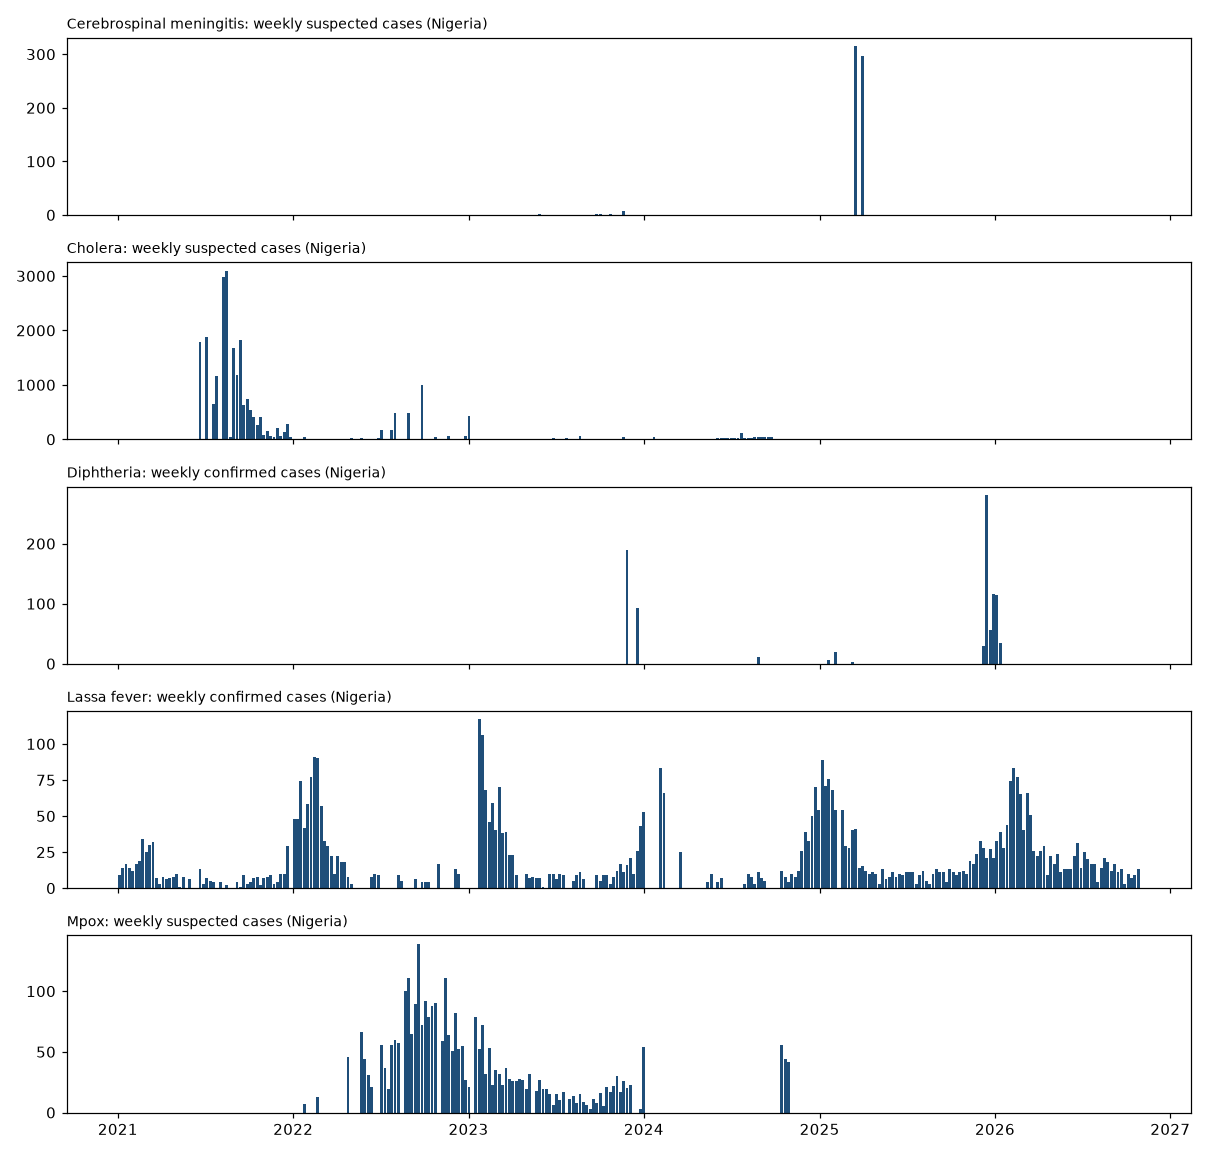
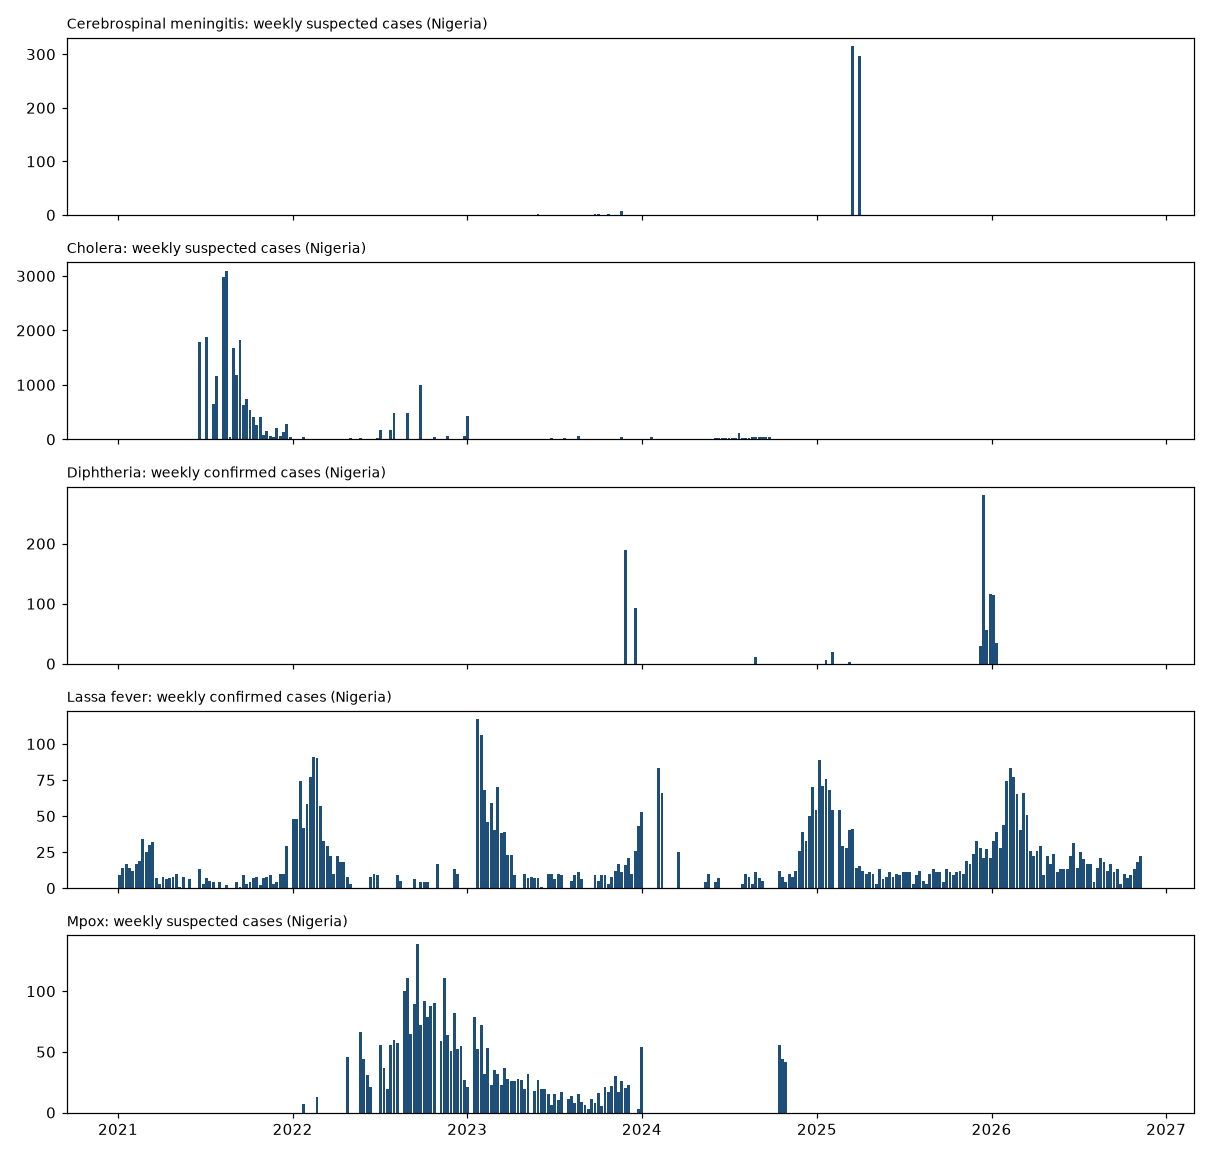
Updated the results report with the latest NCDC data

diff --git a/results/README.md b/results/README.md
@@ -1,12 +1,12 @@
 # Results
 
-> **Real NCDC data, as of 23 November 2026.** All figures were read automatically from the situation reports of the Nigeria Centre for Disease Control and Prevention (NCDC) and checked by the pipeline's validation rules. The four most recent weeks may still be revised by later reports. No synthetic (demo) data is included.
+> **Real NCDC data, as of 26 November 2026.** All figures were read automatically from the situation reports of the Nigeria Centre for Disease Control and Prevention (NCDC) and checked by the pipeline's validation rules. The four most recent weeks may still be revised by later reports. No synthetic (demo) data is included.
 
 This page is rebuilt automatically after every database load, so every number below comes from the database at the time of writing. The research questions (RQ1 to RQ4) are the ones in the thesis.
 
 ## 1. Data collected
 
-The pipeline downloaded 913 NCDC report files. It read 520 of them automatically, set aside 248 (mostly reports from before the 2021 to 2026 study period) and sent 131 to the manual queue because their layout could not be read with confidence. Table 1 shows what was stored for each disease. Lassa fever had the most complete record, with 237 weeks. This is because NCDC publishes a Lassa fever report almost every week, while the other diseases are reported in short runs during outbreaks or once a month.
+The pipeline downloaded 915 NCDC report files. It read 522 of them automatically, set aside 248 (mostly reports from before the 2021 to 2026 study period) and sent 131 to the manual queue because their layout could not be read with confidence. Table 1 shows what was stored for each disease. Lassa fever had the most complete record, with 239 weeks. This is because NCDC publishes a Lassa fever report almost every week, while the other diseases are reported in short runs during outbreaks or once a month.
 
 Table 1- National figures stored for each disease
 
@@ -15,7 +15,7 @@ Table 1- National figures stored for each disease
 | Cerebrospinal meningitis | 29 May 2023 | 31 Mar 2025 | 8 | yes |
 | Cholera | 29 Mar 2021 | 24 Feb 2025 | 77 | yes |
 | Diphtheria | 27 Nov 2023 | 12 Jan 2026 | 14 | yes |
-| Lassa fever | 04 Jan 2021 | 26 Oct 2026 | 237 | yes |
+| Lassa fever | 04 Jan 2021 | 09 Nov 2026 | 239 | yes |
 | Measles | 30 Jun 2025 | 28 Sep 2026 | 16 | yes |
 | Mpox | 24 Jan 2022 | 28 Oct 2024 | 105 | yes |
 | Yellow fever | 25 Jan 2021 | 26 May 2025 | 40 | yes |
@@ -23,12 +23,14 @@ Table 1- National figures stored for each disease
 
 ## 2. Pipeline runs (RQ1)
 
-Out of 7 recorded runs, 3 finished successfully, 4 finished partly (the run completed but at least one report could not be read or loaded) and 0 failed. A partial run still saves everything it could read, and the reports it could not read are listed for review.
+Out of 9 recorded runs, 5 finished successfully, 4 finished partly (the run completed but at least one report could not be read or loaded) and 0 failed. A partial run still saves everything it could read, and the reports it could not read are listed for review.
 
 Table 2- The ten most recent pipeline runs
 
 | Started (UTC) | Type | Status | New files | Rows read | Rows loaded | Rows flagged | Rows held back | Revisions | Seconds |
 |---|---|---|---|---|---|---|---|---|---|
+| 2026-11-26 08:50 | manual | success | 0 | 0 | 0 | 0 | 0 | 0 | 206 |
+| 2026-11-25 15:38 | daily_check | success | 2 | 39 | 39 | 0 | 0 | 0 | 174 |
 | 2026-11-23 16:00 | scheduled | success | 0 | 0 | 0 | 0 | 0 | 0 | 207 |
 | 2026-11-19 18:31 | manual | success | 0 | 1 | 0 | 0 | 1 | 0 | 272 |
 | 2026-11-19 17:31 | manual | partial | 0 | 311 | 307 | 27 | 4 | 7 | 1977 |
@@ -58,7 +60,7 @@ Table 4- Warnings on loaded rows
 
 | Warning | Rows |
 |---|---|
-| R12_COMPLETENESS | 6734 |
+| R12_COMPLETENESS | 6771 |
 | R07_STATE_SUM | 154 |
 | R06_CUM_DECREASE | 130 |
 | R05_CFR_MISMATCH | 50 |
@@ -93,7 +95,7 @@ Fig. 2- Lassa fever trend and seasonal pattern (STL). Source: Collins C. Akagha 
 
 ## 6. Outbreak alerts (RQ3)
 
-I ran the EARS C1, C2 and C3 checks (simple statistical tests from the US CDC's Early Aberration Reporting System that compare a week with the weeks before it) on every national series, and a SARIMA residual check on every series with more than two years of weekly data. Together they flagged 206 weeks out of 1,562 checks (Fig. 3).
+I ran the EARS C1, C2 and C3 checks (simple statistical tests from the US CDC's Early Aberration Reporting System that compare a week with the weeks before it) on every national series, and a SARIMA residual check on every series with more than two years of weekly data. Together they flagged 206 weeks out of 1,570 checks (Fig. 3).
 
 ![Alerts](figures/03_alerts_by_disease.png)
 
@@ -113,10 +115,10 @@ Table 6- Alert checks by disease and method
 | Diphtheria | EARS C1 | 3 | 12 |
 | Diphtheria | EARS C2 | 5 | 12 |
 | Diphtheria | EARS C3 | 8 | 12 |
-| Lassa fever | EARS C1 | 14 | 231 |
-| Lassa fever | EARS C2 | 29 | 229 |
-| Lassa fever | EARS C3 | 45 | 227 |
-| Lassa fever | SARIMA residual | 14 | 193 |
+| Lassa fever | EARS C1 | 14 | 233 |
+| Lassa fever | EARS C2 | 29 | 231 |
+| Lassa fever | EARS C3 | 45 | 229 |
+| Lassa fever | SARIMA residual | 14 | 195 |
 | Mpox | EARS C1 | 5 | 94 |
 | Mpox | EARS C2 | 10 | 94 |
 | Mpox | EARS C3 | 18 | 94 |
@@ -129,7 +131,7 @@ I compared seven forecasting methods: a seasonal naive benchmark (the same week 
 
 ### Lassa fever
 
-The models were trained on confirmed cases. Each was tested over 55 forecast origins. One week ahead, the most accurate method was **SVR** with a MASE of 0.557 and an average error of 6.8 cases per week. The next best was Negative binomial (MASE 0.602), so the best method was 7.5% more accurate. For comparison, SARIMA scored 0.619 and the seasonal naive benchmark scored 1.093. 6 of the 7 methods beat the seasonal naive benchmark one week ahead.
+The models were trained on confirmed cases. Each was tested over 55 forecast origins. One week ahead, the most accurate method was **SVR** with a MASE of 0.594 and an average error of 7.2 cases per week. The next best was Negative binomial (MASE 0.606), so the best method was 1.9% more accurate. For comparison, SARIMA scored 0.636 and the seasonal naive benchmark scored 1.109. 6 of the 7 methods beat the seasonal naive benchmark one week ahead.
 
 ![MASE Lassa fever](figures/04_lassa_mase.png)
 
@@ -139,13 +141,13 @@ Table 7- Lassa fever: MASE by method and weeks ahead
 
 | Method | MASE 1 wk | MASE 2 wk | MASE 3 wk | MASE 4 wk |
 |---|---|---|---|---|
-| SVR | 0.557 | 0.632 | 0.715 | 0.755 |
-| Negative binomial | 0.602 | 0.713 | 0.760 | 0.798 |
-| SARIMA | 0.619 | 0.711 | 0.793 | 0.861 |
-| Random Forest | 0.631 | 0.722 | 0.742 | 0.691 |
-| Gradient Boosting | 0.657 | 0.739 | 0.836 | 0.833 |
-| XGBoost | 0.706 | 0.762 | 0.802 | 0.757 |
-| Seasonal naive | 1.093 | 1.109 | 1.125 | 1.134 |
+| SVR | 0.594 | 0.685 | 0.722 | 0.792 |
+| Negative binomial | 0.606 | 0.722 | 0.763 | 0.808 |
+| SARIMA | 0.636 | 0.740 | 0.831 | 0.886 |
+| Random Forest | 0.650 | 0.741 | 0.765 | 0.701 |
+| Gradient Boosting | 0.665 | 0.715 | 0.753 | 0.788 |
+| XGBoost | 0.700 | 0.704 | 0.725 | 0.809 |
+| Seasonal naive | 1.109 | 1.117 | 1.138 | 1.142 |
 
 
 At the 5% level, the Diebold-Mariano test showed that Seasonal naive (p = 0.013) was significantly less accurate than SARIMA. For the other methods the difference from SARIMA could be due to chance, so I cannot say that any of them is truly better or worse than SARIMA.
@@ -154,12 +156,12 @@ Table 8- Lassa fever: one-week-ahead accuracy and Diebold-Mariano test against S
 
 | Method | MAE | RMSE | MASE | DM statistic | p-value |
 |---|---|---|---|---|---|
-| SVR | 6.753 | 9.150 | 0.557 | -1.110 | 0.272 |
-| Negative binomial | 7.300 | 9.656 | 0.602 | -1.007 | 0.318 |
-| Random Forest | 7.653 | 9.529 | 0.631 | -0.752 | 0.456 |
-| Gradient Boosting | 7.965 | 10.048 | 0.657 | -0.477 | 0.635 |
-| XGBoost | 8.556 | 10.687 | 0.706 | -0.017 | 0.986 |
-| Seasonal naive | 13.255 | 18.254 | 1.093 | 2.577 | 0.013 |
+| SVR | 7.153 | 9.289 | 0.594 | -1.282 | 0.205 |
+| Negative binomial | 7.294 | 9.656 | 0.606 | -1.054 | 0.297 |
+| Random Forest | 7.829 | 9.592 | 0.650 | -0.744 | 0.460 |
+| Gradient Boosting | 8.002 | 10.073 | 0.665 | -0.474 | 0.638 |
+| XGBoost | 8.421 | 10.386 | 0.700 | -0.268 | 0.790 |
+| Seasonal naive | 13.345 | 18.282 | 1.109 | 2.580 | 0.013 |
 
 
 ![Forecast Lassa fever](figures/05_lassa_forecast.png)
@@ -186,13 +188,13 @@ Table 9- Diseases without a forecast
 
 The forecasting results can be reproduced. Every method that uses randomness (Random Forest, Gradient Boosting and XGBoost) uses a fixed random seed (42), and the weekly figures the models were trained on are saved with this page in [`results/data`](data). The settings and the code version are saved in [`settings.json`](data/settings.json). Because NCDC revises its figures and the database is updated every week, a re-run on the live database can differ, but a re-run on the saved snapshot should give the same numbers.
 
-When this page was built, I re-ran the full comparison from the snapshot without the database (`scripts/reproduce_results.py`) and compared the two accuracy tables (Table 10). The re-run used this processor: AMD EPYC 9V74 80-Core Processor.
+When this page was built, I re-ran the full comparison from the snapshot without the database (`scripts/reproduce_results.py`) and compared the two accuracy tables (Table 10). The re-run used this processor: AMD EPYC 9V45 96-Core Processor.
 
 Table 10- Reproducibility check
 
 | Disease | Numbers identical | Largest MASE difference | Same ranking of methods | Same test results |
 |---|---|---|---|---|
-| Lassa fever | yes | 0.00% | yes | yes |
+| Lassa fever | no | 0.14% | yes | yes |
 
 
 Upon further testing, I re-ran the comparison on nine machines with six different processor models. On five of them (Intel Xeon Platinum 8370C and 8573C, Intel Xeon 6975P, and AMD EPYC 9V45 and 9V74) every number was identical. On the sixth (AMD EPYC 7763), Random Forest and Gradient Boosting gave slightly different numbers, because tiny rounding differences in the calculations can change where a decision tree splits. This changed MASE by at most 0.25% and did not change the ranking of the methods or the result of any Diebold-Mariano test. This means the conclusions can be reproduced on any machine, and the exact numbers on most processors.
